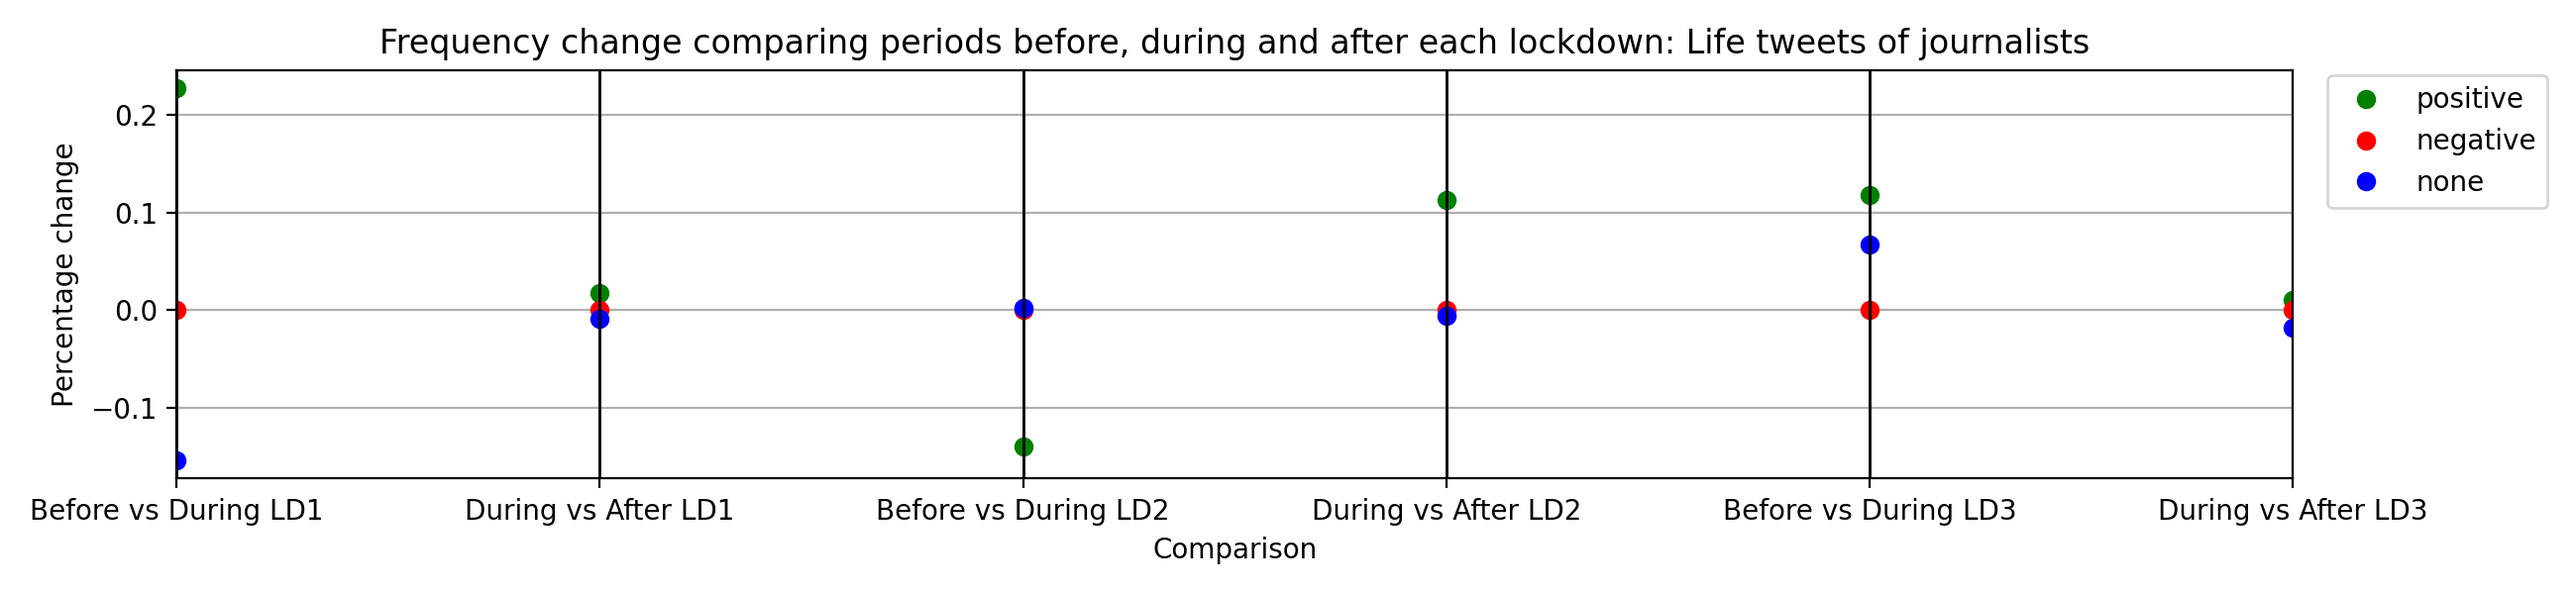
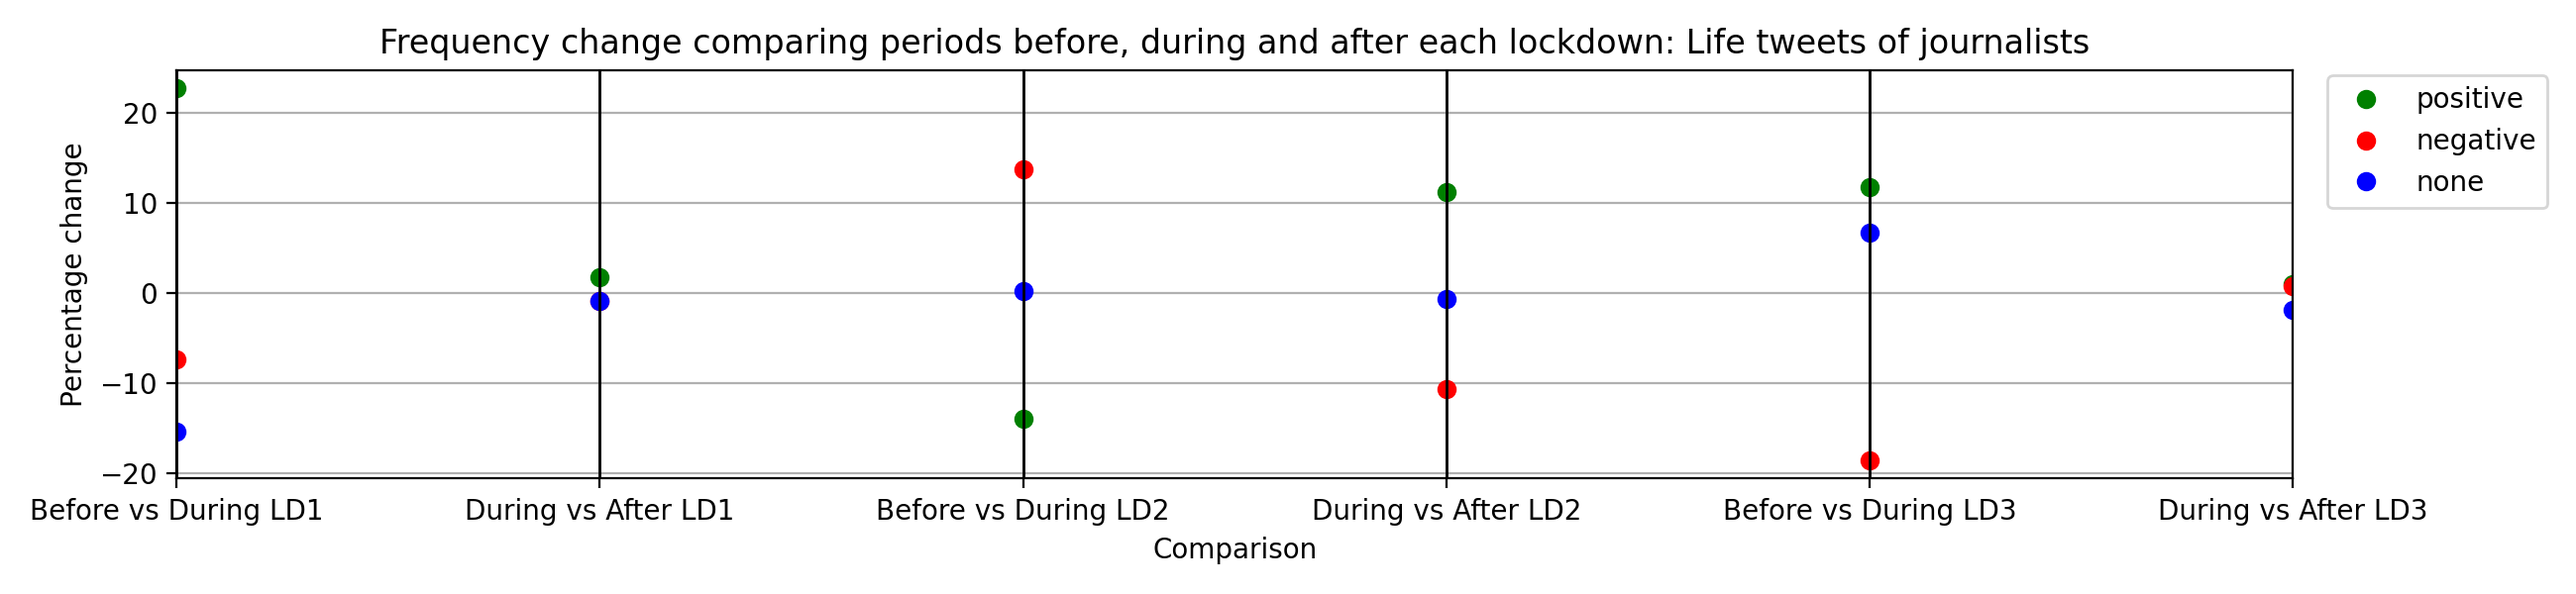
fix journalist and doctor sentiment plots

diff --git a/graphs/comparing_lockdowns.py b/graphs/comparing_lockdowns.py
@@ -6,12 +6,12 @@ from matplotlib import pyplot as plt
 
 directories = ["nursetweets", "doctortweets", "teachertweets",
                "railtweets", "journalisttweets", "musiciantweets"]
-directory_index = 1
+directory_index = 4
 directory_name = directories[directory_index]
-profession_name = "doctor"
-nr_topics = 10
-work_topics = [5]
-chosen_topics = [0,2,4,6,7,9]
+profession_name = "journalist"
+nr_topics = 15
+work_topics = [4]
+chosen_topics = [0,1,3,5,7,8,9]
 
 #Use when plotting all topics in bar chart
 # chosen_topics = list(range(0, nr_topics))
@@ -73,62 +73,60 @@ chosen_topics = [0,2,4,6,7,9]
 #                  "8: Photography",
 #                  "9: Railways/Facebook"]
 
-# topic_dict =  {  0: "Thank you and wishes", #journalist
-#                  1: "Food: groceries and meals",
-#                  2: "Twitter activity",
-#                  3: "TV and music",
-#                  4: "Journalism and articles",
-#                  5: "Reading books",
-#                  6: "Photography",
-#                  7: "COVID-19 Vaccination",
-#                  8: "Pandemic restrictions",
-#                  9: "Gender violence",
-#                  10: "Ireland and Accents",
-#                  11: "Football, articles and movies",
-#                  12: "TV and podcasts",
-#                  13: "Prayers",
-#                  14: "Bloody hell and Football"}
-#
+topic_dict =  {  0: "Thank you and wishes", #journalist
+                 1: "Food: groceries and meals",
+                 2: "Twitter activity",
+                 3: "TV and music",
+                 4: "Journalism and articles",
+                 5: "Reading books",
+                 6: "Photography",
+                 7: "COVID-19 Vaccination",
+                 8: "Pandemic restrictions",
+                 9: "Gender violence",
+                 10: "Ireland and Accents",
+                 11: "Football, articles and movies",
+                 12: "TV and podcasts",
+                 13: "Prayers",
+                 14: "Bloody hell and Football"}
 
-#
-# topic_strings = ["0: Thank you/\nwishes", #journalist
-#                  "1: Food",
-#                  "2: Twitter",
-#                  "3: TV/music",
-#                  "4: Journalism and articles"
-#                  "5: Books",
-#                  "6: Photography",
-#                  "7: Vaccines",
-#                  "8: COVID \nRestrictions",
-#                  "9: Gender \nviolence",
-#                  "10: Ireland",
-#                  "11: Football",
-#                  "12: TV",
-#                  "13: Prayers",
-#                  "14: Bloody \nhell"
-#                  ]
-#
-topic_dict =  {  0: "Twitter activity and commuting", #doctors
-                 1: "Medical rotations and politics",
-                 2: "Congraulations and well wishes",
-                 3: "Thank you's",
-                 4: "British politics",
-                 5: "Surgery",
-                 6: "COVID",
-                 7: "Medical school and training",
-                 8: "COVID safety in schools and university students",
-                 9: "Family and children"}
+topic_strings = ["0: Thank you/\nwishes", #journalist
+                 "1: Food",
+                 "2: Twitter",
+                 "3: TV/music",
+                 "4: Journalism and articles"
+                 "5: Books",
+                 "6: Photography",
+                 "7: Vaccines",
+                 "8: COVID \nRestrictions",
+                 "9: Gender \nviolence",
+                 "10: Ireland",
+                 "11: Football",
+                 "12: TV",
+                 "13: Prayers",
+                 "14: Bloody \nhell"
+                 ]
 
-topic_strings = ["0: Twitter/\ncommuting", #doctors
-                 "1: Rotations/\npolitics",
-                 "2: Well wishes",
-                 "3: Thank you's",
-                 "4: British \npolitics",
-                 "5: Surgery",
-                 "6: COVID",
-                 "7: Medical \ntraining",
-                 "8: COVID in \nschools",
-                 "9: Family/\nchildren"]
+# topic_dict =  {  0: "Twitter activity and commuting", #doctors
+#                  1: "Medical rotations and politics",
+#                  2: "Congraulations and well wishes",
+#                  3: "Thank you's",
+#                  4: "British politics",
+#                  5: "Surgery",
+#                  6: "COVID",
+#                  7: "Medical school and training",
+#                  8: "COVID safety in schools and university students",
+#                  9: "Family and children"}
+#
+# topic_strings = ["0: Twitter/\ncommuting", #doctors
+#                  "1: Rotations/\npolitics",
+#                  "2: Well wishes",
+#                  "3: Thank you's",
+#                  "4: British \npolitics",
+#                  "5: Surgery",
+#                  "6: COVID",
+#                  "7: Medical \ntraining",
+#                  "8: COVID in \nschools",
+#                  "9: Family/\nchildren"]
 
 # topic_dict = { 0: "Twitter activity", #for teachers
 #                 1: "School and school holidays",

diff --git a/sentiment/sentiment_plots.py b/sentiment/sentiment_plots.py
@@ -7,10 +7,10 @@ from matplotlib import pyplot as plt
 
 directories = ["nursetweets", "doctortweets", "teachertweets",
                "railtweets", "journalisttweets", "musiciantweets"]
-directory_index = 4
+directory_index = 1
 directory_name = directories[directory_index]
-profession_name = "journalist"
-nr_topics = 15
+profession_name = "doctor"
+nr_topics = 10
 
 before1 = pd.read_csv(f"sentiment/{profession_name}s_csvs/before_first_lockdown.csv")
 during1 = pd.read_csv(f"sentiment/{profession_name}s_csvs/first_lockdown.csv")
@@ -27,14 +27,17 @@ def get_freq_change(df1, df2):
     df2counts = df2['sentiment'].value_counts()
     print("Df1counts", df1counts)
     print("Df2counts", df2counts)
-    # print("positive 2", df2counts["Positive"])
-    # print("negative 2", df2counts["Negative"])
-    # print("none 2", df2counts["None"])
-    # print("length 2", len(df2), "\n")
-    # print("positive 1", df1counts["Positive"])
-    # print("negative 1", df1counts["Negative"])
-    # print("none 1", df1counts["None"])
-    # print("length 1", len(df1), "\n")
+    # try:
+    #     print("positive 2", df2counts["Positive"])
+    #     print("negative 2", df2counts["Negative"])
+    #     print("none 2", df2counts["None"])
+    #     print("length 2", len(df2), "\n")
+    #     print("positive 1", df1counts["Positive"])
+    #     print("negative 1", df1counts["Negative"])
+    #     print("none 1", df1counts["None"])
+    #     print("length 1", len(df1), "\n")
+    # except Exception as e:
+    #     print("next one was 0 :(")
     try:
         df2pos = df2counts["Positive"]/len(df2)
     except Exception as e:
@@ -64,9 +67,9 @@ def get_freq_change(df1, df2):
     except Exception as e:
         df1none = 0
 
-    pos_change = df2pos-df1pos
-    neg_change = df2neg-df2neg
-    none_change = df2none-df1none
+    pos_change = (df2pos-df1pos) * 100
+    neg_change = (df2neg-df1neg) * 100
+    none_change = (df2none-df1none) * 100
     change_dict = {"positive":pos_change, "negative":neg_change, "none": none_change}
     print(change_dict)
     return change_dict
